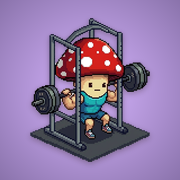
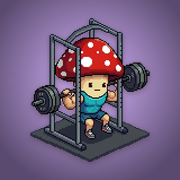
Ícono: degradado más marcado, aún más claro que el original

diff --git a/index.html b/index.html
@@ -2225,7 +2225,7 @@ try{
   var STORAGE_KEY = "gymTrackerData_v4";
 
   // subir APP_VERSION y agregar una entrada acá en cada cambio que valga la pena avisar
-  var APP_VERSION = "1.31.1";
+  var APP_VERSION = "1.31.2";
   var CHANGELOG = {
     "1.1.0": [
       "Ahora te avisamos acá cuando la app tiene novedades, en vez de que te enteres por sorpresa."
@@ -2467,6 +2467,9 @@ try{
     ],
     "1.31.1": [
       "El fondo del ícono de BonaGym es más claro: se veía demasiado oscuro."
+    ],
+    "1.31.2": [
+      "Ajuste del ícono de BonaGym: vuelve el degradado marcado de claro a oscuro, pero con colores más claros que antes."
     ]
   };
   var SEEN_VERSION_KEY = "gymTrackerSeenVersion_v1";

diff --git a/sw.js b/sw.js
@@ -1,4 +1,4 @@
-const CACHE = "gym-app-v65";
+const CACHE = "gym-app-v66";
 const ASSETS = ["./", "./index.html", "./manifest.json", "./bodies.js"];
 
 self.addEventListener("install", (event) => {
